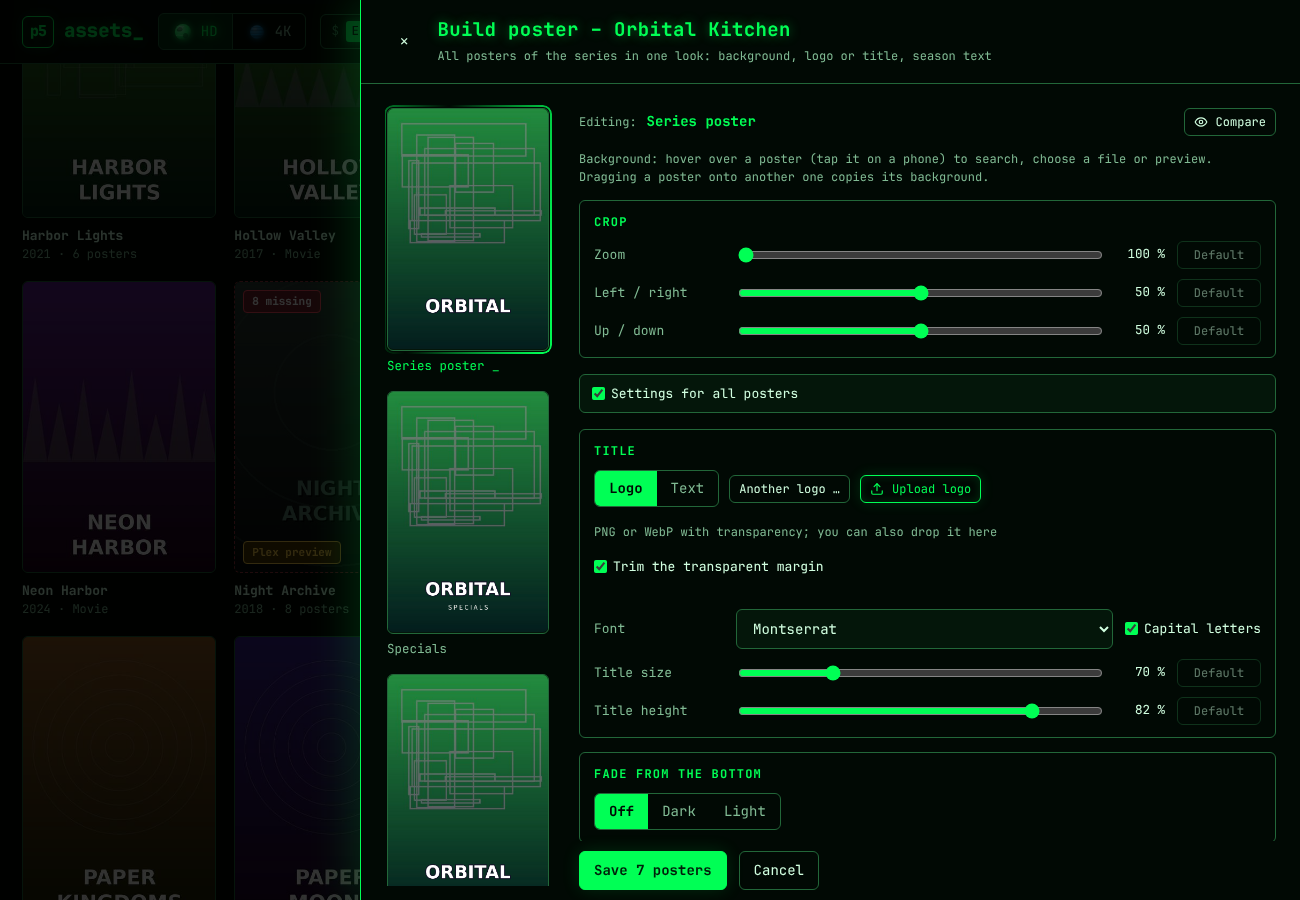
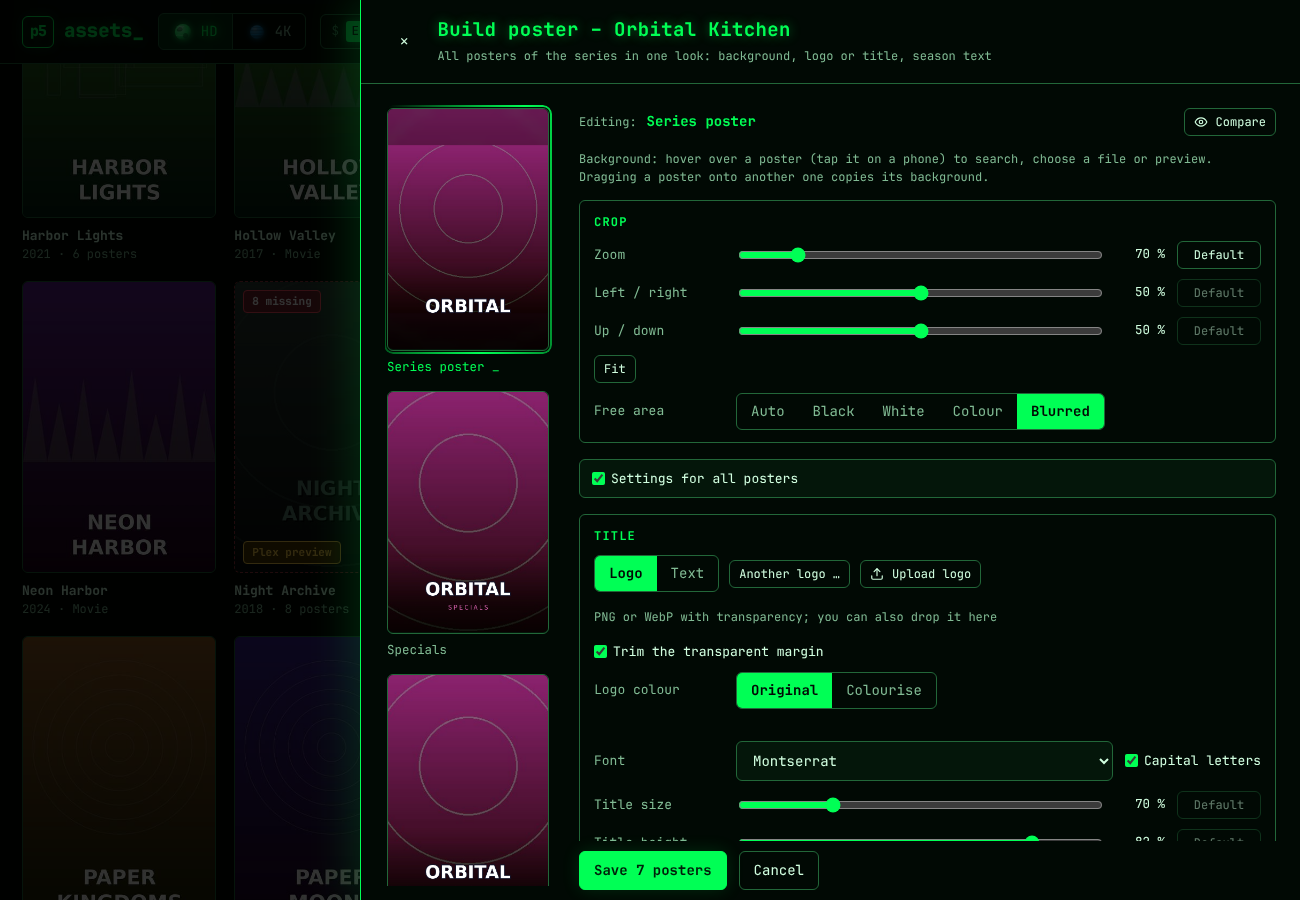
README (EN/DE): poster builder feature list and second screenshot; fix free-area choices when zooming out (0.9.4)
Claude-Session: https://claude.ai/code/session_01JoFLcQEW7QhHAh66qJqz46

diff --git a/app/static/builder.js b/app/static/builder.js
@@ -436,7 +436,7 @@ function makeBuilder(opts) {
   function fitSlider(label, prop, min, max, step, fmt) {
     const def = BUILD_FIT[prop], out = h("span", { class: "bval" });
     const show = v => { out.textContent = fmt(v); reset.classList.toggle("dim", Math.abs(v - def) < step / 2); };
-    const put = v => { P[sel].fit[prop] = v; show(v); paint(sel); };
+    const put = v => { P[sel].fit[prop] = v; show(v); paint(sel); fillRows.hidden = !(P[sel].fit.zoom < 0.999 || P[sel].transp); };     // zoomed out: the free area needs a fill
     const inp = h("input", { type: "range", min, max, step, oninput: () => put(+inp.value) });
     const reset = h("button", { class: "btn sm breset", type: "button", title: T("Auf Standard zurücksetzen"), onclick: () => { inp.value = def; put(def); } }, T("Standard"));
     fitCtl[prop] = () => { const v = P[sel].fit[prop]; inp.value = v; show(v); };

diff --git a/app/version.py b/app/version.py
@@ -3,7 +3,7 @@ from __future__ import annotations
 
 import os
 
-BASE_VERSION = "0.9.3"
+BASE_VERSION = "0.9.4"
 REPO = os.environ.get("P5_REPO", "https://github.com/p5lukas/p5assets").rstrip("/")
 
 

diff --git a/TODO.md b/TODO.md
@@ -222,7 +222,7 @@ All points collected so far are implemented in version 2. Please add new observa
 - [x] **Switching to English** – decisions by the user: (1) **default language English** (not the browser language); German selectable. (2) **Switcher in the header**, in **terminal style** (e.g. `EN | de` or `[EN] DE` with a blinking cursor/prompt look, matching the `assets_` logo), also visible on the login page and in the onboarding; remember the choice in the configuration + `localStorage`. (3) **Notifications always in English** (Discord/Telegram/ntfy). (4) **GitHub entirely in English**: `README.md` in English (main file), `CHANGELOG.md`, release texts, Unraid template/descriptions, workflow/repo texts; in addition a **German README as a separate file** (`README.de.md`, with a link at the top of both files). German only remains in the **p5assets UI** (selectable). `TODO.md` stays in German as an internal working list. Scope of the UI: all texts in `app.js` (labels, hints, toasts, dialogs, onboarding, `pl()`/`fehlt()` grammar per language), backend messages (error texts, scan warnings; log lines in English), `news.json` and the update notice bilingual. Technical: `de.json`/`en.json` with keys, `t(key, params)`, plural rules per language; the backend returns error codes/texts in the language of the request (header `X-Lang`). README images: UI in English on the images (new captures, fictional titles), German README possibly with German captures. During the rework, follow the check rule (desktop, iPhone/iPad, browser/web app) and test the layout with longer English texts. Bigger jump (0.6.0) – before “go”, briefly agree on order/scope.
 - [x] No playful emojis (user): wherever there is an emoji, it should be replaced by something in terminal/Matrix style or dropped. Occurrences (from the code): “All complete!” (🎉), “No orphaned folders found” (🎉), onboarding “All set!” (🚀), welcome page (🖼, 🔗 📚 📡 🌐 🔑), Sonarr/Radarr headings (📺 🎬), source selection (📚 📺 🎬), folder browser (📁 📂), ⚙ in the text “Assign to this world under ⚙ Libraries”. Suggestion: terminal characters and text markers, e.g. `[ OK ]`, `> done_`, `$ ready`, `[✓]`, ASCII frames or the existing line icons (like the header bar: upload, scan, trash, log, gear); replace large emoji areas with a terminal prompt image (blinking cursor, Matrix rain). Also check the symbols ✓ ✕ ⚠: plain, consistent terminal characters or line icons instead of emoji rendering (on iOS some appear as colorful emojis).
 - [x] Feedback on drag & drop: when you drag an image onto a poster, you don't immediately notice that p5assets has registered it; it also sometimes felt slow to the user. Idea: start the Matrix rain on the tile immediately on drop (or a clear “saving” indicator: rain/spinner over the poster, tile locked) and only fade in the new image when it is done; also a clear drop marker while dragging over the tile. In addition, measure where the time goes (upload/conversion/thumbnail/Plex upload/redrawing the list; scan reload after saving) and speed up the slow parts, e.g. load the thumbnail and status in the background instead of waiting for them before displaying. Test with a large image (several MB) and a slow network (phone).
-- [x] **Poster builder** (0.8.0; still on `dev`, not yet merged to `main`; open: the exact font of the ThePosterDB reference set, bundled fonts are selectable meanwhile): if no suitable poster can be found, build one inside p5assets so that all posters of a series look consistent.
+- [x] **Poster builder** (done in 0.8 – 0.9 on `dev`; open: the exact font of the ThePosterDB reference set, the bundled fonts are selectable meanwhile): if no suitable poster can be found, build one inside p5assets so that all posters of a series look consistent.
   - Ingredients: (1) a **textless poster** as the background (from the online search, language "xx", or an uploaded image), (2) a **clear logo** (transparent PNG, e.g. from TMDb/fanart.tv) **or a free text** as the title, centered, vertical position adjustable, (3) for series: a line **“Season x”** (or a range like “Season x–y”, depending on the season poster) under the logo/series name, in the same style on every poster.
   - **Movies:** a “Build” choice in the hover menu of a poster tile (next to Replace/Upload/Search online); opens a single-poster editor.
   - **Series:** a small button in the series detail view next to “Upload set”, “ThePosterDB” and “Download” opens the **build mode**. The window stays the same; all letters scramble Matrix-style (like the language switch); then all posters of the series can be built at once: extra buttons and sliders for the details, a live preview for every poster, the poster being edited is chosen at the top and changes are visible immediately; the poster currently being edited gets a clearly visible, Matrix-style frame (e.g. glowing border with a little rain). Stay close to the series detail view.

diff --git a/README.de.md b/README.de.md
@@ -71,9 +71,18 @@ und welche vorhandenen Bilder ersetzt würden.
 - **Herunterladen** in Originalqualität: einzelne Poster oder eine Auswahl als ZIP (auf iPhone und iPad öffnet sich das Original in p5assets: Bild lange drücken → „Zu Fotos hinzufügen“)
 
 ### Poster-Builder
-Kein passendes Poster gefunden? Dann baust du eins. Du wählst einen textlosen Hintergrund direkt auf der Kachel (Online-Suche oder eigene Datei), dazu ein Clear-Logo von TMDb, fanart.tv oder TheTVDB – oder, falls es keins gibt, den Titel als Text. Serien bekommen darunter eine Staffelzeile („Season One“, „Specials“) in einer zum Hintergrund passenden, frei änderbaren Farbe. Filme: **Bauen** im Hover-Menü. Serien: der Bauen-Knopf in der Detailansicht öffnet den Baumodus mit Vorschau aller Poster; das gerade bearbeitete hat einen Matrix-Rahmen. Gespeichert wird als 1000×1500-JPG mit der üblichen Benennung, Papierkorb und Rückgängig; Looks lassen sich als Vorlagen speichern. Acht mitgelieferte Schriften (OFL). Backdrops, Episodenbilder und Staffelbilder lassen sich mit einstellbarem Bildausschnitt als Hintergrund nutzen (Wegzoomen mit gefülltem freiem Bereich, optionaler Farbfilter), und p5assets merkt sich den Look jeder Serie (samt gewählten Hintergründen): Später tauschst du zum Beispiel nur das Logo für alle Poster oder baust eine neue Staffel passend nach.
+Kein passendes Poster? Dann baust du eins direkt in p5assets. Es wird wie jedes andere Poster gespeichert (Kometa-Benennung, 1000×1500-JPG, Papierkorb und Rückgängig).
+
+- **Hintergrund:** online suchen (Poster, Backdrops, Episodenbilder, Staffelbilder) oder eigene Datei. Bildausschnitt, Wegzoomen mit gefülltem freiem Bereich, optionaler Farbfilter und Überblendung von unten.
+- **Titel:** Clear-Logo von TMDb, fanart.tv oder TheTVDB (oder eigenes PNG/WebP) oder der Titel als Text. Größe, Höhe, Farbe, acht mitgelieferte Schriften.
+- **Serien:** ein Look für alle Poster, mit Staffelzeile („Season One“, „Specials“) in einer Farbe aus dem Bild. Einstellungen gelten für alle Poster, mit Ausnahmen pro Poster.
+- **Prüfen:** alle Poster nebeneinander vergleichen, jedes groß ansehen, zwischen Entwurf und vorhandenem Poster umschalten.
+- **Gemerkt:** der Look jeder Serie bleibt erhalten. Später tauschst du zum Beispiel nur das Logo für alle Poster oder baust eine neue Staffel passend nach. Looks lassen sich auch als Vorlagen speichern.
+- **Wo:** Filme: **Bauen** im Hover-Menü. Serien: **Bauen** in der Detailansicht. Oder **Selbst bauen** in der Online-Suche.
 
 <img src="docs/images/poster-builder.png" alt="Poster-Builder für eine Serie" width="640">
+
+<img src="docs/images/poster-builder-search.png" alt="Hintergrund-Suche mit Backdrops, Episodenbildern und Staffelbildern" width="640">
 
 ### Online-Suche
 Poster von TMDb, TVDB und fanart.tv, gruppiert nach deiner **Sprach-Priorität pro Welt** (z. B. Textless → Deutsch → Englisch),

diff --git a/README.md b/README.md
@@ -74,9 +74,18 @@ p5assets reads the title, year and season from file and folder names, shows you 
 - **Download** in original quality: single posters, or a selection as a ZIP. On iPhone/iPad the original opens in p5assets; long-press the image and choose “Add to Photos”.
 
 ### Poster builder
-No suitable poster? Build one. Pick a textless background on the poster tile (online search or your own file), then a clear logo from TMDb, fanart.tv or TheTVDB, or the title as text if there is none. Series get a season line (“Season One”, “Specials”) under it, with a colour picked from the background that you can change. Movies: **Build** in the hover menu. Series: the build button in the detail view opens build mode, where every poster is previewed and the one being edited has a Matrix frame. Posters are rendered at 1000×1500 JPG, saved with the usual naming, trash and undo, and looks can be saved as presets. Eight bundled open-licence fonts (OFL). Backdrops, episode pictures and season pictures can be used as backgrounds with an adjustable crop (zoom out with a filled free area, optional colour filter), and p5assets remembers the look of each series (including the chosen backgrounds), so a later visit can swap only the logo on all posters or build a new season to match.
+No suitable poster? Build one right in p5assets. It is saved like any other poster (Kometa naming, 1000×1500 JPG, trash and undo).
+
+- **Background:** search online (posters, backdrops, episode pictures, season pictures) or use your own file. Crop and zoom out with a filled free area, optional colour filter and a fade from the bottom.
+- **Title:** a clear logo from TMDb, fanart.tv or TheTVDB (or your own PNG/WebP), or the title as text. Size, height, colour, eight bundled fonts.
+- **Series:** one look for all posters, with a season line (“Season One”, “Specials”) in a colour taken from the picture. Settings apply to all posters, with exceptions per poster.
+- **Check:** compare all posters side by side, view each one large, switch between draft and existing poster.
+- **Remembered:** the look of each series is kept, so later you can swap only the logo on all posters or add a season in the same style. Looks can also be saved as presets.
+- **Where:** movies: “Build” in the hover menu. Series: “Build” in the detail view. Or “Build it myself” in the online search.
 
 <img src="docs/images/poster-builder.png" alt="Poster builder for a series: all posters in one look" width="640">
+
+<img src="docs/images/poster-builder-search.png" alt="Background search with backdrops, episode pictures and season pictures" width="640">
 
 ### Online search
 Posters from TMDb, TVDB and fanart.tv, sorted by your **preferred poster languages per world** (e.g. Textless → German → English), applied with one click.

diff --git a/CHANGELOG.md b/CHANGELOG.md
@@ -1,5 +1,13 @@
 # Changelog
 
+## 0.9.4 – 2026-11-16
+
+**Changed**
+- README (English and German): the poster builder section now lists all features briefly, with a second screenshot of the background search
+
+**Fixed**
+- Poster builder: the “Free area” choices appeared only after another setting was changed when zooming out with the slider; they now show up at once
+
 ## 0.9.3 – 2026-11-16
 
 **New**
